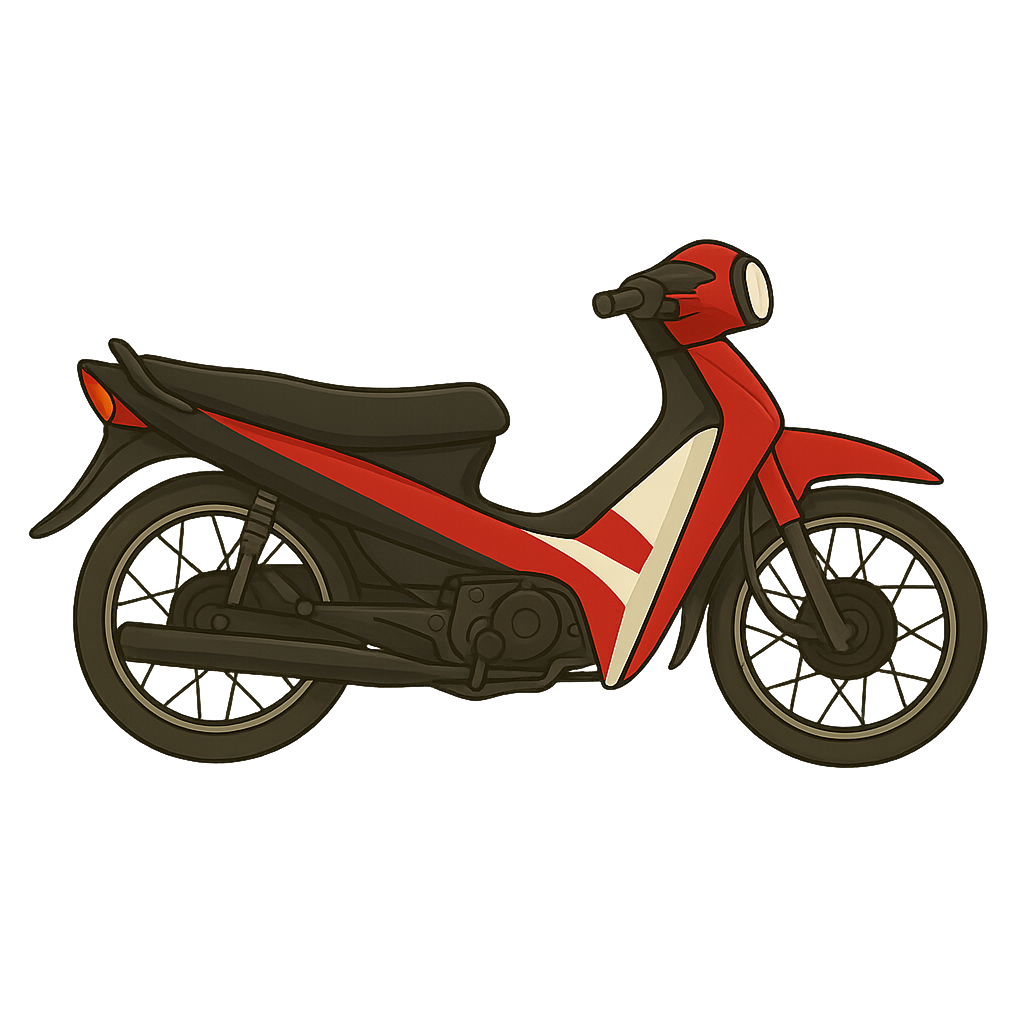
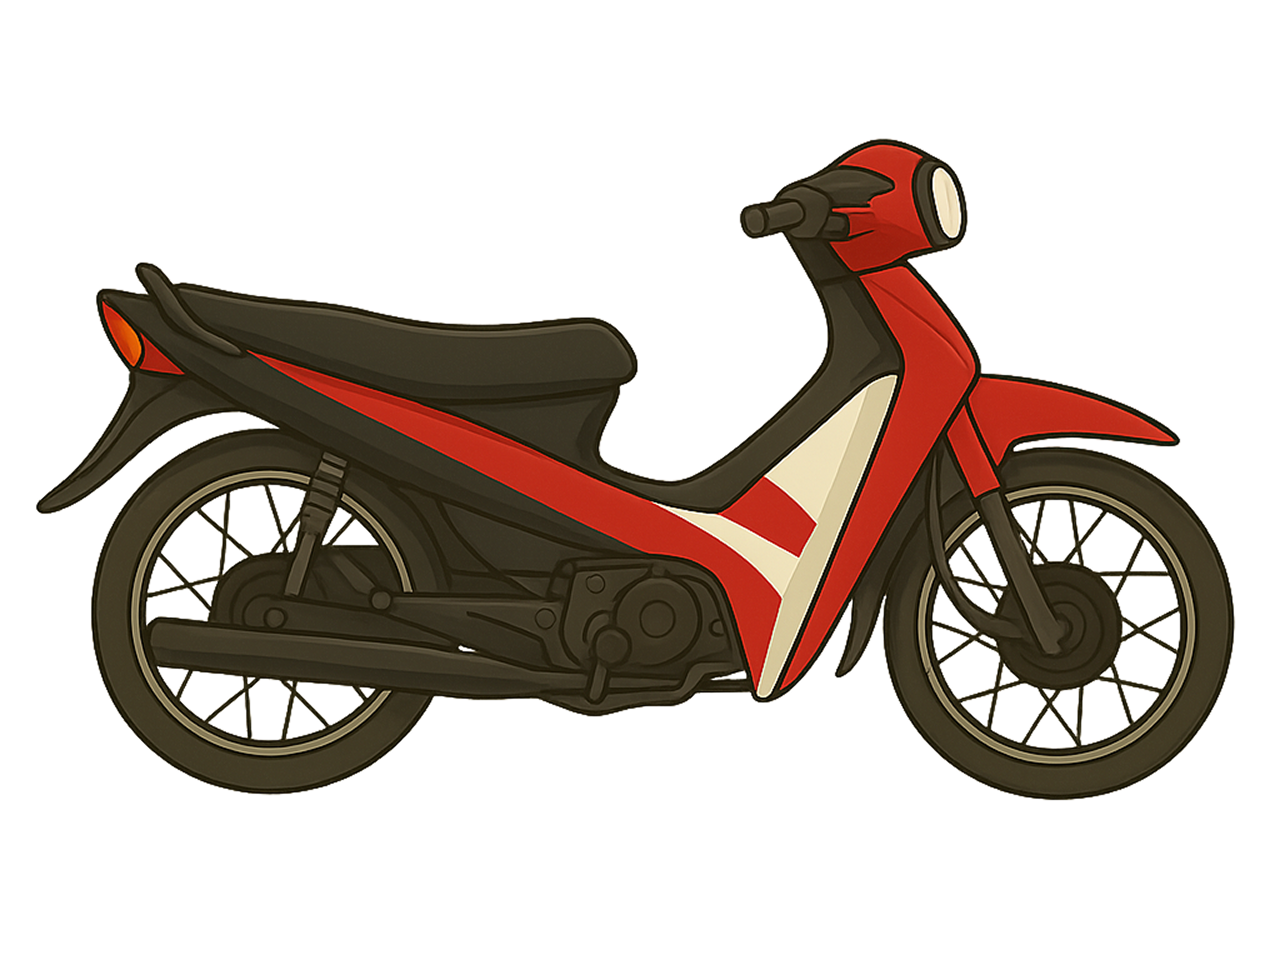
Enhance `ViewPager` in `LevelPreviewScene` with dynamic layout adjustments, dot rendering improvements, and fallback image handling. Refactor `metadata` for app rebranding. Update `BikeGame` for better mobile interaction support.

Changed region(s): [[0.0312, 0.125, 0.9688, 0.8438]]

diff --git a/src/ui/ViewPager.ts b/src/ui/ViewPager.ts
@@ -10,6 +10,8 @@ export type ViewPagerOptions = {
     dotInactiveColor?: number;
     showDots?: boolean;
     dotsOffsetY?: number; // offset from bottom of pager area
+    backgroundColor?: number;
+    backgroundAlpha?: number;
 };
 
 export type ViewPagerPage = {
@@ -29,9 +31,10 @@ export default class ViewPager extends Phaser.GameObjects.Container {
     private currentIndex = 0;
     private pageWidth: number;
     private pageHeight: number;
+    private backgroundRect!: Phaser.GameObjects.Rectangle;
     private pageImage!: Phaser.GameObjects.Image;
     private hitZone!: Phaser.GameObjects.Zone;
-    private dots: Phaser.GameObjects.Arc[] = [];
+    private dots: Phaser.GameObjects.Graphics[] = [];
     private dotsContainer!: Phaser.GameObjects.Container;
     private opts: Required<ViewPagerOptions>;
     private onPageChangeCallback?: (index: number, page: ViewPagerPage) => void;
@@ -53,12 +56,14 @@ export default class ViewPager extends Phaser.GameObjects.Container {
         const defaults: Required<ViewPagerOptions> = {
             pageWidth: 300 * su,
             pageHeight: 200 * su,
-            dotRadius: 6 * su,
+            dotRadius: 4 * su,
             dotGap: 16 * su,
-            dotActiveColor: 0x111827,
-            dotInactiveColor: 0xD1D5DB,
+            dotActiveColor: 0xFFFFFFFF,
+            dotInactiveColor: 0xFF99A0AA,
             showDots: true,
             dotsOffsetY: 20 * su,
+            backgroundColor: 0x000000,
+            backgroundAlpha: 0,
         };
 
         this.opts = {...defaults, ...opts} as Required<ViewPagerOptions>;
@@ -66,8 +71,14 @@ export default class ViewPager extends Phaser.GameObjects.Container {
         this.pageHeight = this.opts.pageHeight;
         this.pages = pages || [];
 
+        // Background behind page content
+        this.backgroundRect = scene.add.rectangle(0, 0, this.pageWidth, this.pageHeight, this.opts.backgroundColor, this.opts.backgroundAlpha)
+            .setOrigin(0.5, 0);
+        this.add(this.backgroundRect);
+
         // Create page image container
         this.pageImage = scene.add.image(0, 0, '__DEFAULT').setOrigin(0.5, 0);
+        this.pageImage.setSize(this.pageWidth, this.pageHeight)
         this.add(this.pageImage);
 
         // Create an invisible hit zone covering the whole pager area for gestures
@@ -270,13 +281,30 @@ export default class ViewPager extends Phaser.GameObjects.Container {
 
     private fitPageImage() {
         const img = this.pageImage;
-        if (!img.texture || img.texture.key === '__DEFAULT') return;
+        // If no valid texture, size to pager bounds and exit
+        if (!img.texture || img.texture.key === '__DEFAULT') {
+            img.setDisplaySize(this.pageWidth, this.pageHeight);
+            img.setPosition(0, 0);
+            return;
+        }
 
-        const maxW = this.pageWidth;
-        const maxH = this.pageHeight;
-        // Use Math.max to make image fill more space (cover style) - image will be bigger
-        const scale = Math.max(maxW / img.width, maxH / img.height);
-        img.setScale(scale);
+        const pad = 16 * scaleUnit();
+        const maxW = Math.max(1, this.pageWidth * 0.85);
+        const maxH = Math.max(1, this.pageHeight);
+
+        const naturalW = Math.max(1, img.width);
+        const naturalH = Math.max(1, img.height);
+
+        // Contain: ensure the rendered image never exceeds the viewport bounds
+        const scale = maxH / naturalH
+        const displayW = naturalW * scale;
+        const displayH = naturalH * scale;
+
+        img.setDisplaySize(displayW, displayH);
+
+        // Center vertically within the page area (origin 0.5, 0)
+        const offsetY = (this.pageHeight - displayH) / 2;
+        img.setPosition(0, offsetY);
     }
 
     private updateHitArea() {
@@ -293,17 +321,22 @@ export default class ViewPager extends Phaser.GameObjects.Container {
         if (!this.opts.showDots || this.pages.length <= 1) return;
 
         const {dotRadius, dotGap, dotInactiveColor} = this.opts;
+        const dotWidth = dotRadius * 2; // 8*su
+        const dotHeight = dotRadius;    // 4*su
+        const cornerRadius = dotRadius; // 4*su
         const totalW = (this.pages.length - 1) * dotGap;
         const startX = -totalW / 2;
 
         // Position dots below the page image
-        const dotsY = this.pageHeight + this.opts.dotsOffsetY;
+        const dotsY = this.pageImage.y + this.pageImage.displayHeight + this.opts.dotsOffsetY;
         this.dotsContainer.setY(dotsY);
 
         for (let i = 0; i < this.pages.length; i++) {
-            const dot = this.scene.add.circle(startX + i * dotGap, 0, dotRadius, dotInactiveColor, 1);
-            this.dotsContainer.add(dot);
-            this.dots.push(dot);
+            const g = this.scene.add.graphics({x: startX + i * dotGap, y: 0});
+            g.fillStyle(dotInactiveColor, 1);
+            g.fillRoundedRect(-dotWidth / 2, -dotHeight / 2, dotWidth, dotHeight, cornerRadius);
+            this.dotsContainer.add(g);
+            this.dots.push(g);
         }
 
         this.highlightDot();
@@ -313,9 +346,15 @@ export default class ViewPager extends Phaser.GameObjects.Container {
         if (this.dots.length === 0) return;
 
         const {dotActiveColor, dotInactiveColor} = this.opts;
+        const dotWidth = this.opts.dotRadius * 2;
+        const dotHeight = this.opts.dotRadius;
+        const cornerRadius = this.opts.dotRadius;
         for (let i = 0; i < this.dots.length; i++) {
             const active = i === this.currentIndex;
-            this.dots[i].setFillStyle(active ? dotActiveColor : dotInactiveColor, 1);
+            const g = this.dots[i];
+            g.clear();
+            g.fillStyle(active ? dotActiveColor : dotInactiveColor, 1);
+            g.fillRoundedRect(-dotWidth / 2, -dotHeight / 2, dotWidth, dotHeight, cornerRadius);
         }
     }
 
@@ -416,6 +455,8 @@ export default class ViewPager extends Phaser.GameObjects.Container {
         this.pageHeight = height;
         this.opts.pageWidth = width;
         this.opts.pageHeight = height;
+        this.backgroundRect.setSize(width, height);
+        this.backgroundRect.setDisplaySize(width, height);
         this.setSize(width, height);
         this.renderCurrentPage();
         this.buildDots();
@@ -457,7 +498,8 @@ export default class ViewPager extends Phaser.GameObjects.Container {
     /** Get actual display height including dots */
     getTotalHeight(): number {
         if (this.opts.showDots && this.pages.length > 1) {
-            return this.pageHeight + this.opts.dotsOffsetY + this.opts.dotRadius * 2;
+            // Dot height equals dotRadius (since we render 8*su × 4*su with radius 4*su)
+            return this.pageHeight + this.opts.dotsOffsetY + this.opts.dotRadius;
         }
         return this.pageHeight;
     }

diff --git a/src/scence/LevelPreviewScene.ts b/src/scence/LevelPreviewScene.ts
@@ -6,7 +6,7 @@ import {registerFontAutoRefresh} from "@/utils/fontSync";
 import {scaleUnit} from "@/utils/CanvasSize";
 import CoinBar from "@/ui/CoinBar";
 import ViewPager, {ViewPagerPage} from "@/ui/ViewPager";
-import {getProfile, fetchProfileIfStale} from "@/services/globalApi";
+import {fetchProfileIfStale, getProfile} from "@/services/globalApi";
 
 export type LevelPreviewItem = {
     level?: number;
@@ -169,14 +169,30 @@ export default class LevelPreviewScene extends Phaser.Scene {
             this.scene.start(this.previousScene);
         });
 
-        // ViewPager for bike images - constrained to bottom of levelButton
-        const levelButtonBottom = height / 2 + this.levelButton.height / 2;
-        const pagerMarginTop = 16 * su;
-        const pagerY = levelButtonBottom + pagerMarginTop;
+        // ViewPager spans space between level button bottom and close button top with padding
+        const levelButtonBottom = this.levelButton.y + this.levelButton.height / 2;
+        const topPadding = 16 * su;
+        const bottomPadding = 16 * su;
+        const pagerTop = levelButtonBottom + topPadding;
         const closeBtnTop = btnY - this.closeBtn.height / 2;
-        const availableHeight = closeBtnTop - pagerY - 40 * su; // Leave space for dots
-        const pagerWidth = width * 0.85;
-        const pagerHeight = Math.min(availableHeight * 0.8, height * 0.35);
+        const pagerBottom = closeBtnTop - bottomPadding;
+
+        // Reserve space for dots at the bottom of pager content (8*su × 4*su rounded rect => radius 4*su)
+        const dotRadius = 4 * su;
+        const dotsOffsetY = 8 * su;
+
+        const availableHeight = Math.max(0, pagerBottom - pagerTop);
+        const maxPagerHeight = Math.max(0, availableHeight - (dotsOffsetY + dotRadius * 2));
+        const targetPagerHeight = Math.min(height * 0.35, maxPagerHeight);
+        const minPagerHeight = 120 * su;
+        let pagerHeight = targetPagerHeight;
+        if (pagerHeight < minPagerHeight) {
+            pagerHeight = Math.min(minPagerHeight, maxPagerHeight);
+        }
+
+        // Center pager within the available vertical slice
+        const pagerY = pagerTop;
+        const pagerWidth = width - 28 * su;
 
         // Create initial pages array (empty keys, will be loaded)
         const pages: ViewPagerPage[] = this.items.map((item, index) => ({
@@ -189,12 +205,11 @@ export default class LevelPreviewScene extends Phaser.Scene {
             pageWidth: pagerWidth,
             pageHeight: pagerHeight,
             showDots: true,
-            dotRadius: 6 * su,
+            dotRadius,
             dotGap: 16 * su,
-            dotsOffsetY: 20 * su,
+            dotsOffsetY,
         });
         this.add.existing(this.viewPager);
-
         // Handle page changes
         this.viewPager.onPageChange((index, page) => {
             this.currentIndex = index;

diff --git a/src/app/layout.tsx b/src/app/layout.tsx
@@ -2,8 +2,8 @@ import type {Metadata} from "next";
 import "./globals.css";
 
 export const metadata: Metadata = {
-    title: "Create Next App",
-    description: "Generated by create next app",
+    title: "Xế Cưng Aha",
+    description: "Xế cưng Aha",
 };
 
 export default function RootLayout({

diff --git a/src/components/BikeGame.tsx b/src/components/BikeGame.tsx
@@ -58,6 +58,7 @@ export default function BikeGame() {
             <div
                 ref={containerRef}
                 className="w-full h-full"
+                style={{ touchAction: 'none' }}
             />
         </div>
     );
